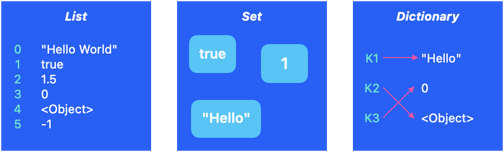
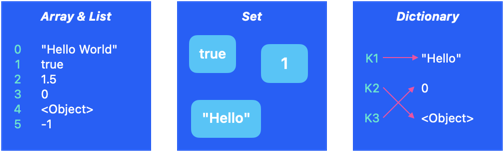
docs: create containers page

Changed region(s): [[0.0595, 0.0789, 0.2381, 0.1579]]

diff --git a/docs/lang/containers/index.md b/docs/lang/containers/index.md
@@ -5,10 +5,35 @@ sidebar_position: 4
 # Containers
 
 Containers are useful to create a collection of values.
-Three kinds of containers exist in Drift: **lists**, **sets** 
+Four kinds of native containers exist in Drift: **arrays**, **lists**, **sets** 
 and **dictionaries**. Each container has its own properties and logic.
 
+:::note
+Containers are based on Kotlin types.
+Sets are based on Kotlin's ``Map`` type.
+:::
+
 <div class="text--center">![](/img/pics/containers.png)</div>
+
+## Arrays
+
+Arrays are useful to store values following an order.
+Order is defined by integer keys. Array's keys always begin
+with 0. Without an explicit type, an array **can store all types**.
+
+Arrays have immutable size.
+
+:::warning
+At this moment, Drift does not implement Arrays.
+```drift
+let anArray: [Type:Size] = [ ... ]
+```
+:::
+
+:::warning
+Without explicit typing, the ``[ ... ]`` expression
+is cast as ``List``.
+:::
 
 ## Lists
 
@@ -16,9 +41,55 @@ Lists are useful to store values following an order.
 Order is defined by integer keys. List's keys always begin 
 with 0. Without an explicit type, a list **can store all types**.
 
+Lists have mutable size, it is more powerful for content editing
+than Arrays.
+
 :::warning
 At this moment, Drift does not implement explicit list typing.
 ```drift
 let aList: Type[] = [ ... ]
 ```
+:::
+
+:::warning
+Without explicit typing, the ``[ ... ]`` expression
+is cast as ``List``.
+:::
+
+## Sets
+
+Sets get their power from their simplicity.
+Contrarily of Arrays and Lists, Sets permit
+storing without an order and duplicate values.
+
+:::warning
+At this moment, Drift does not implement Sets.
+
+```drift
+let aSet: Type[&] = [ ... ]
+```
+:::
+
+:::warning
+Without explicit typing, the ``[ ... ]`` expression
+is cast as ``List``.
+:::
+
+## Dictionaries
+
+Dictionaries permit storing values by assigning them
+a unique custom key. Useful to create key-based structures 
+like configurations or objects.
+
+:::warning
+At this moment, Drift does not implement Dictionaries.
+
+```drift
+let aDict: [KeyType -> ValueType] = [ Key -> Value, ... ]
+```
+:::
+
+:::warning
+Without explicit typing, the empty ``[]`` expression
+is cast as ``List``.
 :::
